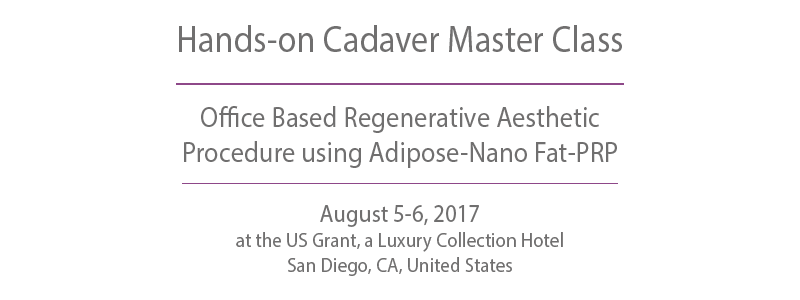
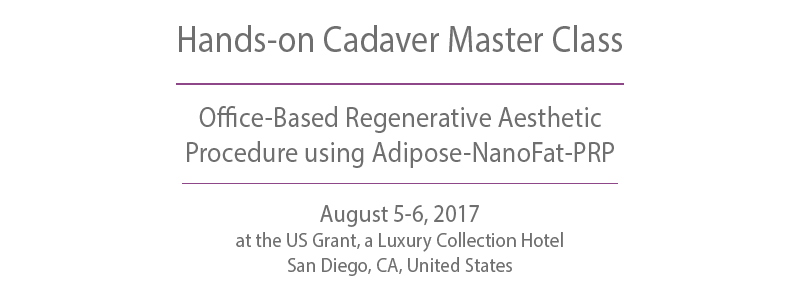
Edit grammar / copy for home page and images

Changed region(s): [[0.2188, 0.36, 0.7812, 0.57]]

diff --git a/home.html b/home.html
@@ -62,24 +62,24 @@
         <div class="col-m-12 col-d-12">
           <h2 class="header">San Diego ARTS presents<h2/>
           <h3>Hands-on Cadaver Master Class on<h3/>
-          <h3>Office Based Regenerative Aesthetic Procedure using Adipose-NanoFat-PRP<h3/>
+          <h3>Office-Based Regenerative Aesthetic Procedure using Adipose-NanoFat-PRP<h3/>
           <h2 class="header">3 Global Renowned Mentors Join Hands<h2/>
         </div>
       </div>
       <div class="row">
         <div class="mentors col-m-12 col-d-4">
-          <img src="assets/robertalexander.png" alt="Dr. Robert Alexander, MD"/>
-          <h3>Dr. Robert Alexander, MD</h3>
+          <img src="assets/robertalexander.png" alt="Robert Alexander, MD"/>
+          <h3>Robert Alexander, MD</h3>
           <p><a href="./faculty.html">Full bio</a></p>
         </div>
         <div class="mentors col-m-12 col-d-4">
-          <img src="assets/stevencohen.png" alt="Dr. Steven Cohen, MD"/>
-          <h3>Dr. Steven Cohen, MD</h3>
+          <img src="assets/stevencohen.png" alt="Steven Cohen, MD"/>
+          <h3>Steven Cohen, MD</h3>
           <p><a href="./faculty.html">Full bio</a></p>
         </div>
         <div class="mentors col-m-12 col-d-4">
-          <img src="assets/patricktonnard.png" alt="Dr. Patrick Tonnard, MD"/>
-          <h3>Dr. Patrick Tonnard, MD</h3>
+          <img src="assets/patricktonnard.png" alt="Patrick Tonnard, MD"/>
+          <h3>Patrick Tonnard, MD</h3>
           <p><a href="./faculty.html">Full bio</a></p>
         </div>
       </div>
@@ -94,7 +94,7 @@
         <div class="col-m-12 col-d-4">
           <div class="padded">
             <h2 class="header">5 Major Challenges</h2>
-            <h3 class="description-subheader">Addressed Step-by-Step through an unprecedented training format</h3>
+            <h3 class="description-subheader">Step-by-Step unprecedented training format</h3>
             <p>Lectures + Video Demonstrations + Live Demonstrations + Hands on Cadaver training</p>
           </div>
         </div>
